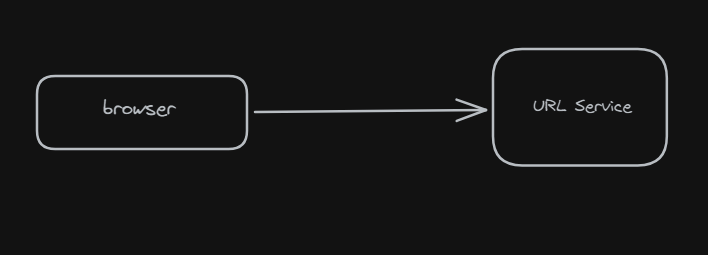
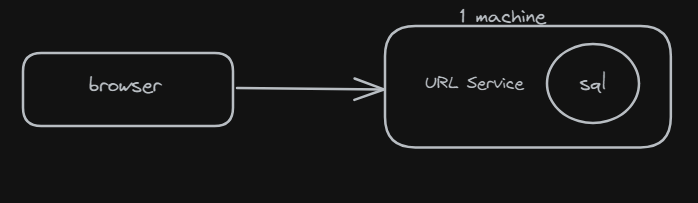
use local sql server instead of inmemory (#7)
* use local sql server instead of inmemory

* nit - more asserts

* refactor DI code

* nit

* remove unmaintained file

---------

Changed region(s): [[0.0301, 0.0591, 0.9628, 0.7389], [0.1203, 0.3842, 0.2708, 0.4729], [0.8725, 0.532, 0.9026, 0.5911]]

diff --git a/TinyUrl/Migrations/20241019152129_url_length_constraint.Designer.cs b/TinyUrl/Migrations/20241019152129_url_length_constraint.Designer.cs
@@ -1,0 +1,55 @@
+// <auto-generated />
+using Microsoft.EntityFrameworkCore;
+using Microsoft.EntityFrameworkCore.Infrastructure;
+using Microsoft.EntityFrameworkCore.Metadata;
+using Microsoft.EntityFrameworkCore.Migrations;
+using Microsoft.EntityFrameworkCore.Storage.ValueConversion;
+using TinyUrl.Repository;
+
+#nullable disable
+
+namespace TinyUrl.Migrations
+{
+    [DbContext(typeof(ApplicationDbContext))]
+    [Migration("20241019152129_url_length_constraint")]
+    partial class url_length_constraint
+    {
+        /// <inheritdoc />
+        protected override void BuildTargetModel(ModelBuilder modelBuilder)
+        {
+#pragma warning disable 612, 618
+            modelBuilder
+                .HasAnnotation("ProductVersion", "8.0.10")
+                .HasAnnotation("Relational:MaxIdentifierLength", 128);
+
+            SqlServerModelBuilderExtensions.UseIdentityColumns(modelBuilder);
+
+            modelBuilder.Entity("TinyUrl.Repository.UrlMappings", b =>
+                {
+                    b.Property<int>("Id")
+                        .ValueGeneratedOnAdd()
+                        .HasColumnType("int");
+
+                    SqlServerPropertyBuilderExtensions.UseIdentityColumn(b.Property<int>("Id"));
+
+                    b.Property<string>("Code")
+                        .HasMaxLength(8)
+                        .HasColumnType("nvarchar(8)");
+
+                    b.Property<string>("Url")
+                        .IsRequired()
+                        .HasMaxLength(300)
+                        .HasColumnType("nvarchar(300)");
+
+                    b.HasKey("Id");
+
+                    b.HasIndex("Code")
+                        .IsUnique()
+                        .HasFilter("[Code] IS NOT NULL");
+
+                    b.ToTable("Urls");
+                });
+#pragma warning restore 612, 618
+        }
+    }
+}

diff --git a/TinyUrl/Migrations/20241019145901_InitialCreate.Designer.cs b/TinyUrl/Migrations/20241019145901_InitialCreate.Designer.cs
@@ -1,0 +1,54 @@
+// <auto-generated />
+using Microsoft.EntityFrameworkCore;
+using Microsoft.EntityFrameworkCore.Infrastructure;
+using Microsoft.EntityFrameworkCore.Metadata;
+using Microsoft.EntityFrameworkCore.Migrations;
+using Microsoft.EntityFrameworkCore.Storage.ValueConversion;
+using TinyUrl.Repository;
+
+#nullable disable
+
+namespace TinyUrl.Migrations
+{
+    [DbContext(typeof(ApplicationDbContext))]
+    [Migration("20241019145901_InitialCreate")]
+    partial class InitialCreate
+    {
+        /// <inheritdoc />
+        protected override void BuildTargetModel(ModelBuilder modelBuilder)
+        {
+#pragma warning disable 612, 618
+            modelBuilder
+                .HasAnnotation("ProductVersion", "8.0.10")
+                .HasAnnotation("Relational:MaxIdentifierLength", 128);
+
+            SqlServerModelBuilderExtensions.UseIdentityColumns(modelBuilder);
+
+            modelBuilder.Entity("TinyUrl.Repository.UrlMappings", b =>
+                {
+                    b.Property<int>("Id")
+                        .ValueGeneratedOnAdd()
+                        .HasColumnType("int");
+
+                    SqlServerPropertyBuilderExtensions.UseIdentityColumn(b.Property<int>("Id"));
+
+                    b.Property<string>("Code")
+                        .HasMaxLength(8)
+                        .HasColumnType("nvarchar(8)");
+
+                    b.Property<string>("Url")
+                        .IsRequired()
+                        .HasColumnType("nvarchar(max)");
+
+                    b.HasKey("Id");
+
+                    b.HasIndex("Code")
+                        .IsUnique()
+                        .HasFilter("[Code] IS NOT NULL");
+
+                    b.ToTable("Urls");
+                });
+#pragma warning restore 612, 618
+        }
+    }
+}

diff --git a/TinyUrl/Migrations/ApplicationDbContextModelSnapshot.cs b/TinyUrl/Migrations/ApplicationDbContextModelSnapshot.cs
@@ -1,0 +1,52 @@
+// <auto-generated />
+using Microsoft.EntityFrameworkCore;
+using Microsoft.EntityFrameworkCore.Infrastructure;
+using Microsoft.EntityFrameworkCore.Metadata;
+using Microsoft.EntityFrameworkCore.Storage.ValueConversion;
+using TinyUrl.Repository;
+
+#nullable disable
+
+namespace TinyUrl.Migrations
+{
+    [DbContext(typeof(ApplicationDbContext))]
+    partial class ApplicationDbContextModelSnapshot : ModelSnapshot
+    {
+        protected override void BuildModel(ModelBuilder modelBuilder)
+        {
+#pragma warning disable 612, 618
+            modelBuilder
+                .HasAnnotation("ProductVersion", "8.0.10")
+                .HasAnnotation("Relational:MaxIdentifierLength", 128);
+
+            SqlServerModelBuilderExtensions.UseIdentityColumns(modelBuilder);
+
+            modelBuilder.Entity("TinyUrl.Repository.UrlMappings", b =>
+                {
+                    b.Property<int>("Id")
+                        .ValueGeneratedOnAdd()
+                        .HasColumnType("int");
+
+                    SqlServerPropertyBuilderExtensions.UseIdentityColumn(b.Property<int>("Id"));
+
+                    b.Property<string>("Code")
+                        .HasMaxLength(8)
+                        .HasColumnType("nvarchar(8)");
+
+                    b.Property<string>("Url")
+                        .IsRequired()
+                        .HasMaxLength(300)
+                        .HasColumnType("nvarchar(300)");
+
+                    b.HasKey("Id");
+
+                    b.HasIndex("Code")
+                        .IsUnique()
+                        .HasFilter("[Code] IS NOT NULL");
+
+                    b.ToTable("Urls");
+                });
+#pragma warning restore 612, 618
+        }
+    }
+}

diff --git a/TinyUrl/Repository/SqlRepository.cs b/TinyUrl/Repository/SqlRepository.cs
@@ -1,0 +1,41 @@
+using Microsoft.EntityFrameworkCore;
+
+namespace TinyUrl.Repository
+{
+    public class SqlRepository : IUrlRepository
+    {
+        private readonly ApplicationDbContext _dbContext;
+
+        public SqlRepository(ApplicationDbContext dbContext)
+        {
+            this._dbContext = dbContext;
+        }
+
+        public async Task<int> GenerateIdAsync(Uri url, CancellationToken cancellationToken)
+        {
+            var urlMappings = new UrlMappings { Url = url.ToString() };
+            this._dbContext.Urls.Add(urlMappings);
+            await this._dbContext.SaveChangesAsync(cancellationToken);
+            return urlMappings.Id;
+        }
+
+        public async Task<bool> TryUpdateCodeAsync(int id, string code, CancellationToken cancellationToken)
+        {
+            var urlMappings = await this._dbContext.Urls.FindAsync(new object[] { id }, cancellationToken);
+            if (urlMappings == null)
+            {
+                return false;
+            }
+
+            urlMappings.Code = code;
+            await this._dbContext.SaveChangesAsync(cancellationToken);
+            return true;
+        }
+
+        public async Task<Uri?> TryGetUrlByCodeAsync(string code, CancellationToken cancellationToken)
+        {
+            var urlMappings = await this._dbContext.Urls.FirstOrDefaultAsync(x => x.Code == code, cancellationToken);
+            return urlMappings == null ? null : new Uri(urlMappings.Url!);
+        }
+    }
+}

diff --git a/TinyUrl/Migrations/20241019145901_InitialCreate.cs b/TinyUrl/Migrations/20241019145901_InitialCreate.cs
@@ -1,0 +1,42 @@
+using Microsoft.EntityFrameworkCore.Migrations;
+
+#nullable disable
+
+namespace TinyUrl.Migrations
+{
+    /// <inheritdoc />
+    public partial class InitialCreate : Migration
+    {
+        /// <inheritdoc />
+        protected override void Up(MigrationBuilder migrationBuilder)
+        {
+            migrationBuilder.CreateTable(
+                name: "Urls",
+                columns: table => new
+                {
+                    Id = table.Column<int>(type: "int", nullable: false)
+                        .Annotation("SqlServer:Identity", "1, 1"),
+                    Code = table.Column<string>(type: "nvarchar(8)", maxLength: 8, nullable: true),
+                    Url = table.Column<string>(type: "nvarchar(max)", nullable: false)
+                },
+                constraints: table =>
+                {
+                    table.PrimaryKey("PK_Urls", x => x.Id);
+                });
+
+            migrationBuilder.CreateIndex(
+                name: "IX_Urls_Code",
+                table: "Urls",
+                column: "Code",
+                unique: true,
+                filter: "[Code] IS NOT NULL");
+        }
+
+        /// <inheritdoc />
+        protected override void Down(MigrationBuilder migrationBuilder)
+        {
+            migrationBuilder.DropTable(
+                name: "Urls");
+        }
+    }
+}

diff --git a/TinyUrl/Migrations/20241019152129_url_length_constraint.cs b/TinyUrl/Migrations/20241019152129_url_length_constraint.cs
@@ -1,0 +1,36 @@
+using Microsoft.EntityFrameworkCore.Migrations;
+
+#nullable disable
+
+namespace TinyUrl.Migrations
+{
+    /// <inheritdoc />
+    public partial class url_length_constraint : Migration
+    {
+        /// <inheritdoc />
+        protected override void Up(MigrationBuilder migrationBuilder)
+        {
+            migrationBuilder.AlterColumn<string>(
+                name: "Url",
+                table: "Urls",
+                type: "nvarchar(300)",
+                maxLength: 300,
+                nullable: false,
+                oldClrType: typeof(string),
+                oldType: "nvarchar(max)");
+        }
+
+        /// <inheritdoc />
+        protected override void Down(MigrationBuilder migrationBuilder)
+        {
+            migrationBuilder.AlterColumn<string>(
+                name: "Url",
+                table: "Urls",
+                type: "nvarchar(max)",
+                nullable: false,
+                oldClrType: typeof(string),
+                oldType: "nvarchar(300)",
+                oldMaxLength: 300);
+        }
+    }
+}

diff --git a/TinyUrl/Repository/ApplicationDbContext.cs b/TinyUrl/Repository/ApplicationDbContext.cs
@@ -1,0 +1,25 @@
+using Microsoft.EntityFrameworkCore;
+
+namespace TinyUrl.Repository
+{
+    public class ApplicationDbContext : DbContext
+    {
+        public ApplicationDbContext(DbContextOptions<ApplicationDbContext> options) : base(options)
+        {
+        }
+
+        public DbSet<UrlMappings> Urls { get; set; }
+
+        protected override void OnModelCreating(ModelBuilder modelBuilder)
+        {
+            modelBuilder.Entity<UrlMappings>(entity =>
+            {
+                entity.HasKey(e => e.Id);
+                entity.Property(e => e.Id).ValueGeneratedOnAdd();
+                entity.Property(e => e.Url).IsRequired().HasMaxLength(300);
+                entity.Property(e => e.Code).IsRequired(false).HasMaxLength(8);
+                entity.HasIndex(e => e.Code).IsUnique();
+            });
+        }
+    }
+}

diff --git a/TinyUrl/Program.cs b/TinyUrl/Program.cs
@@ -1,22 +1,16 @@
-using System.Text.Json;
-using TinyUrl;
+using TinyUrl.Controllers;
 using TinyUrl.Logic;
 using TinyUrl.Repository;
 
 var builder = WebApplication.CreateBuilder(args);
+var configuration = builder.Configuration;
 
 // Add services to the container.
 
 var services = builder.Services;
-services.AddSingleton<IUrlRepository, InMemoryRepository>();
-services.AddControllers()
-    .AddJsonOptions(options =>
-    {
-        options.JsonSerializerOptions.PropertyNamingPolicy = JsonNamingPolicy.CamelCase;
-    });
-services.AddEndpointsApiExplorer();
-services.AddSwaggerGen();
-services.AddSingleton<IUrlConverter, UrlConverter>();
+services.AddDataDependencies(configuration);
+services.AddApiDependencies();
+services.AddBusinessLogicDependencies();
 var app = builder.Build();
 
 if (app.Environment.IsDevelopment())

diff --git a/TinyUrl/Controllers/ServiceExtensions.cs b/TinyUrl/Controllers/ServiceExtensions.cs
@@ -1,0 +1,18 @@
+using System.Text.Json;
+
+namespace TinyUrl.Controllers
+{
+    public static class ServiceExtensions
+    {
+        internal static void AddApiDependencies(this IServiceCollection services)
+        {
+            services.AddControllers()
+                .AddJsonOptions(options =>
+                {
+                    options.JsonSerializerOptions.PropertyNamingPolicy = JsonNamingPolicy.CamelCase;
+                });
+            services.AddEndpointsApiExplorer();
+            services.AddSwaggerGen();
+        }
+    }
+}

diff --git a/TinyUrl/Repository/ServiceExtensions.cs b/TinyUrl/Repository/ServiceExtensions.cs
@@ -1,0 +1,17 @@
+using Microsoft.EntityFrameworkCore;
+
+namespace TinyUrl.Repository
+{
+    public static class ServiceExtensions
+    {
+        internal static void AddDataDependencies(this IServiceCollection services, IConfiguration configuration)
+        {
+            services.AddDbContext<ApplicationDbContext>(options =>
+            {
+                options.UseSqlServer(configuration.GetConnectionString("DefaultConnection"));
+            });
+
+            services.AddScoped<IUrlRepository, SqlRepository>();
+        }
+    }
+}

diff --git a/TinyUrl.Tests/IntegrationTests/ApiShould.cs b/TinyUrl.Tests/IntegrationTests/ApiShould.cs
@@ -65,6 +65,7 @@ namespace TinyUrl.Tests
         {
             var content = JsonContent.Create(new { longUrl });
             var response = await client.PostAsync("api/v1/shorten", content, cancellationToken);
+            response.EnsureSuccessStatusCode();
             return await response.Content.ReadFromJsonAsync<ShortUrlResponse>(cancellationToken);
         }
 

diff --git a/TinyUrl/Repository/InMemoryRepository.cs b/TinyUrl/Repository/InMemoryRepository.cs
@@ -3,6 +3,7 @@ using Microsoft.VisualBasic.CompilerServices;
 
 namespace TinyUrl.Repository
 {
+    // not used after introducing SqlRepository
     public sealed class InMemoryRepository : IUrlRepository
     {
         private readonly ConcurrentDictionary<int, string> _idToUrl= new();
